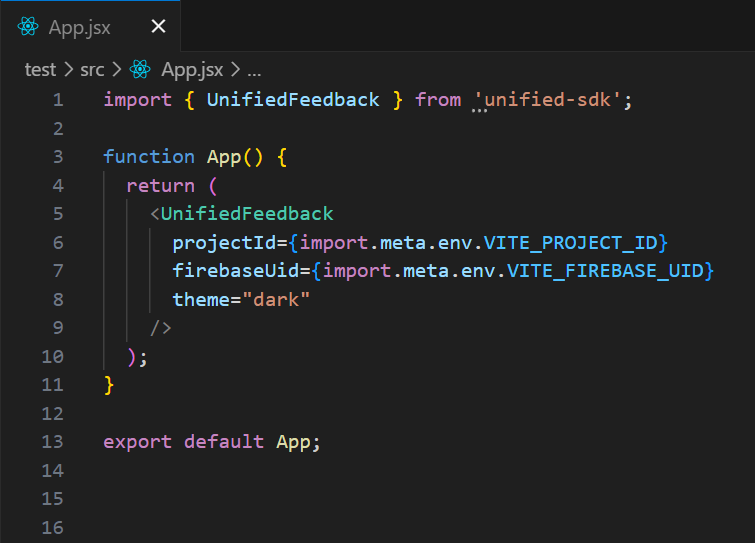
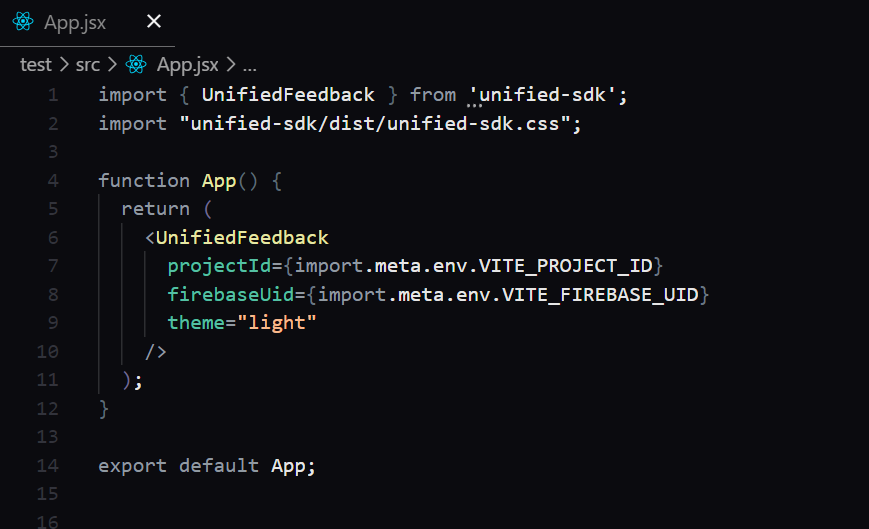
updated docs

diff --git a/frontend/src/components/dashboard/ProjectPreview.jsx b/frontend/src/components/dashboard/ProjectPreview.jsx
@@ -8,7 +8,9 @@ const ProjectPreview = ({ isOpen, onClose, project }) => {
   const [showCode, setShowCode] = useState(false);
   const [copied, setCopied] = useState(false);
 
-  const codeSnippet = `import { UnifiedFeedback } from 'unified-sdk';
+  const codeSnippet = 
+`import { UnifiedFeedback } from "unified-sdk";
+import "unified-sdk/dist/unified-sdk.css";
 
 function App() {
   return (

diff --git a/frontend/src/pages/Docs.jsx b/frontend/src/pages/Docs.jsx
@@ -30,7 +30,10 @@ const steps = [
     title: "Add Component",
     description:
       "Copy the integration code from project preview and add it to your app.",
-    code: `import { UnifiedFeedback } from 'unified-sdk';
+    code: 
+    
+`import { UnifiedFeedback } from 'unified-sdk';
+import "unified-sdk/dist/unified-sdk.css";
 
 function App() {
   return (
